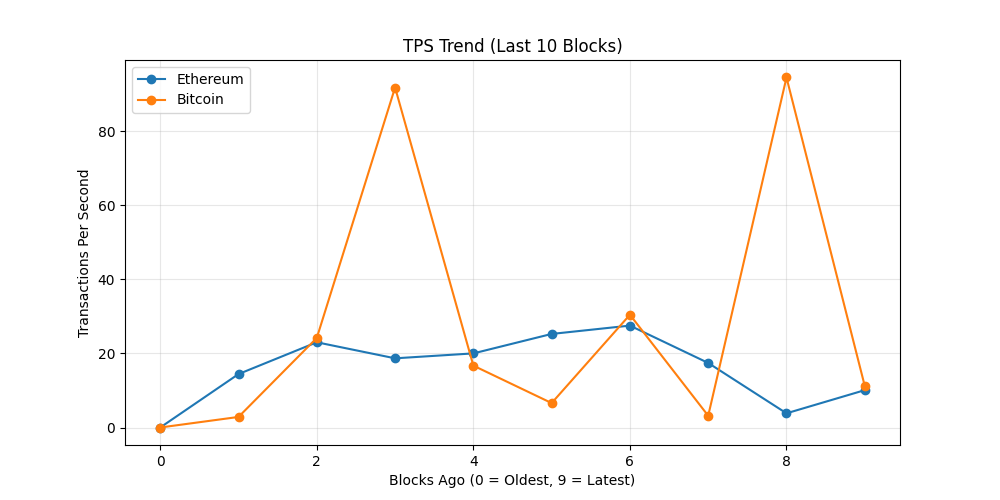
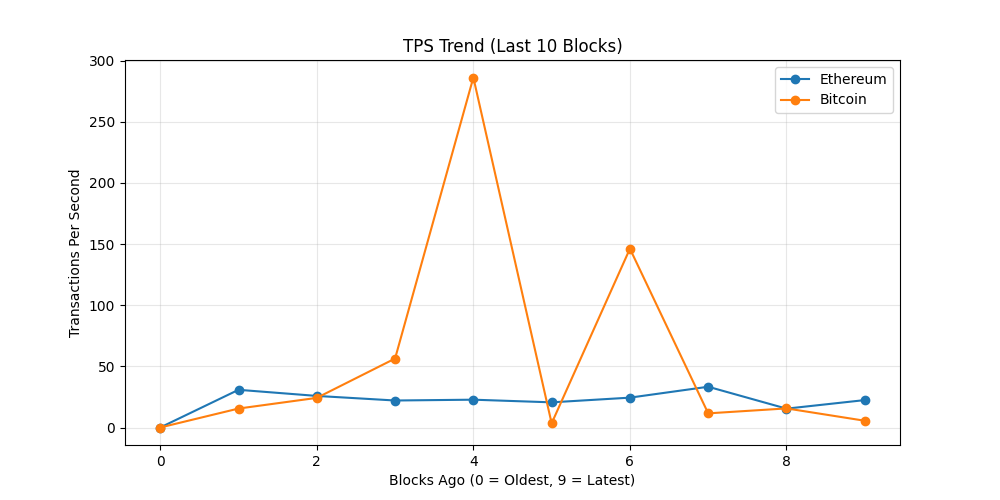
chore: update on-chain dashboard

diff --git a/README.md b/README.md
@@ -19,7 +19,7 @@ The README itself acts as the dashboard and is regenerated automatically on a 6 
 demonstrating a production-style, infrastructure-focused observability workflow rather
 than a traditional UI-driven approach.
 
-_Last updated: 2026-10-12 05:54 UTC_
+_Last updated: 2026-10-12 15:20 UTC_
 
 ## API Usage (GetBlock.io)
 - Calls used: **24**
@@ -27,8 +27,8 @@ _Last updated: 2026-10-12 05:54 UTC_
 ## Network Metrics
 | Chain | Block Height | TX Count | TPS (10 blk avg) | Block Util | Avg Fee |
 |------|-------------|----------|------------------|------------|---------|
-| Ethereum | 26174422 | 121 | 10.08 | 99.97% | 0.1 Gwei |
-| Bitcoin | 971052 | 6439 | 11.2 | 99.84% | N/A |
+| Ethereum | 26177245 | 269 | 22.42 | 52.62% | 0.3 Gwei |
+| Bitcoin | 971109 | 3512 | 5.52 | 99.79% | N/A |
 
 ## Visuals
 ### Transactions Trend
@@ -43,11 +43,11 @@ _Last updated: 2026-10-12 05:54 UTC_
 ## Whale Alerts (latest block)
 - Transaction hashes are truncated for readability.
 - Full hashes are available in `dashboards/metrics.json`
-- Bitcoin | 438.06 BTC | `d7140cecafaf…`
-- Bitcoin | 155.91 BTC | `7f839bcbcd25…`
-- Bitcoin | 532.74 BTC | `3fc3d81ed1a8…`
-- Bitcoin | 149.3 BTC | `cf6483eb8797…`
-- Bitcoin | 199.99 BTC | `5be832ff5bb8…`
+- Bitcoin | 120.44 BTC | `0ace65449d74…`
+- Bitcoin | 749.08 BTC | `48f3b50a1750…`
+- Bitcoin | 2485.19 BTC | `911e3f9bc1c1…`
+- Bitcoin | 131.07 BTC | `9e685f7f752b…`
+- Bitcoin | 198.89 BTC | `a9e6b75a9ec4…`
 
 ## Run locally
 
